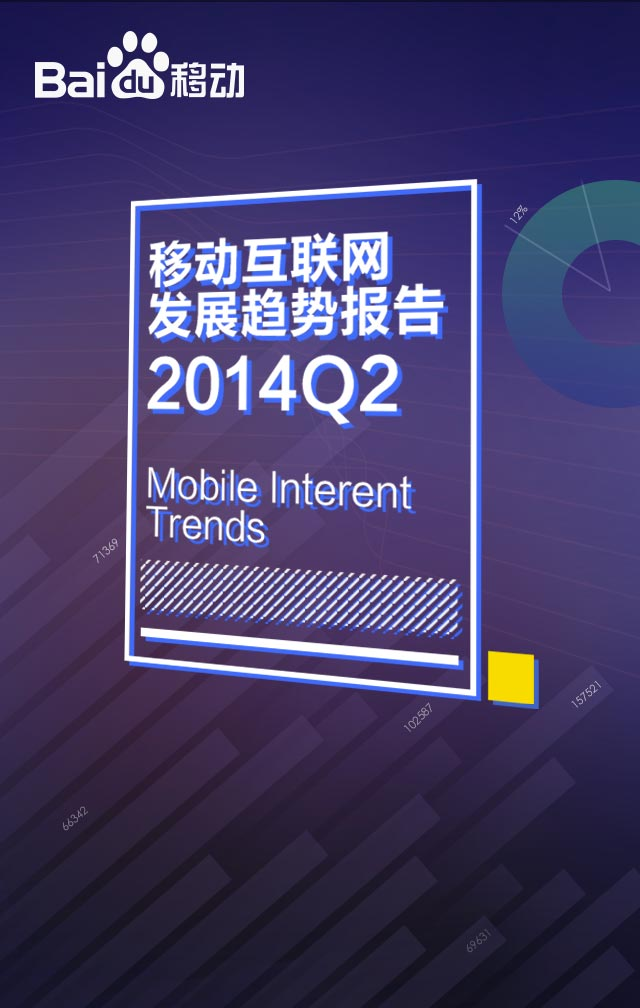
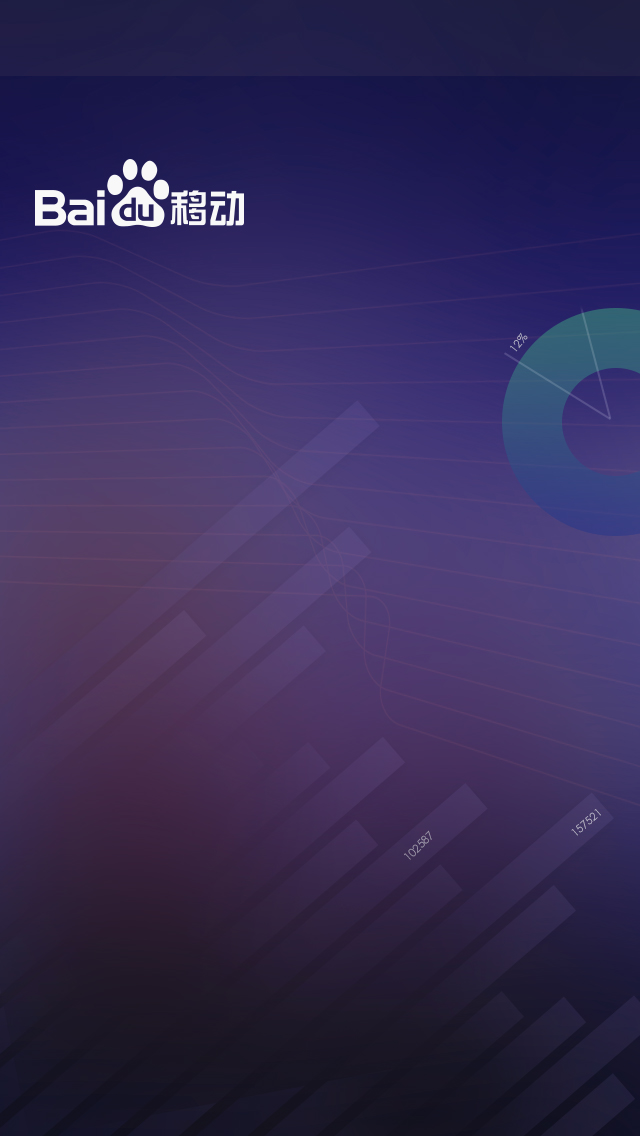
added heavy

diff --git a/index.js b/index.js
@@ -1,4 +1,5 @@
 (function() {
+  console.log(window.DeviceMotionEvent);
   var pageHeight = $('body').height();
   var SwiperCover, SwiperPages, SwiperEnd;
   var colors = [
@@ -172,4 +173,28 @@
     document.addEventListener('touchmove', stopScrolling, false);
   });
   $('.swiper-slide').height(pageHeight);
+
+  function deviceMotionHandler(eventData) {
+    // 
+    var acceleration = eventData.accelerationIncludingGravity;
+    var facingUp = -1;
+    if (acceleration.z > 0) {
+      facingUp = +1;
+    }
+    // var tiltLR = Math.round(((acceleration.x) / 9.81) * -90);
+    // var tiltFB = Math.round(((acceleration.y + 9.81) / 9.81) * 90 * facingUp);
+
+    // var rotation = "rotate3d(1,0,0, " + (tiltFB) + "deg)";
+    // document.getElementById("img1").style.webkitTransform = rotation;
+    // document.getElementById("img2").style.webkitTransform = rotation;
+    // document.getElementById("img3").style.webkitTransform = rotation;
+    $('#img1').css({
+      left: acceleration.x - 5,
+      bottom: acceleration.y
+    });
+  }
+  // 
+  if (window.DeviceMotionEvent) {
+    window.addEventListener('devicemotion', deviceMotionHandler, false);
+  }
 })();

diff --git a/index.html b/index.html
@@ -11,6 +11,9 @@
 </head>
 <body>
   <div class="swiper-slide report-cover" id='cover'>
+    <img src="img/cover_layer1.png" alt="" class='l1' width='261' id='img1'>
+    <img src="img/covertitle_layer2.png" alt="" class='tl2' width='205' id='img2'>
+    <img src="img/covertitle_layer1.png" alt="" class='tl1' width='205' id='img3'>
     <div class="cover-guide">
       <img class="arrow-up" src="img/arrow.png" alt="" width="10">
         <span>滑动查看</span>

diff --git a/css/styles.css b/css/styles.css
@@ -389,3 +389,18 @@ body {
   border-bottom: #FFF 2px solid;
   color: #d0cfd3;
 }
+#cover>.tl1,#cover>.tl2,#cover>.l1{
+  position: absolute;
+}
+#cover>.l1{
+  left: 0;
+  bottom:0;
+}
+#cover>.tl1{
+  left: 62px;
+  top: 154px;
+}
+#cover>.tl2{
+  left: 65px;
+  top: 159px;
+}
